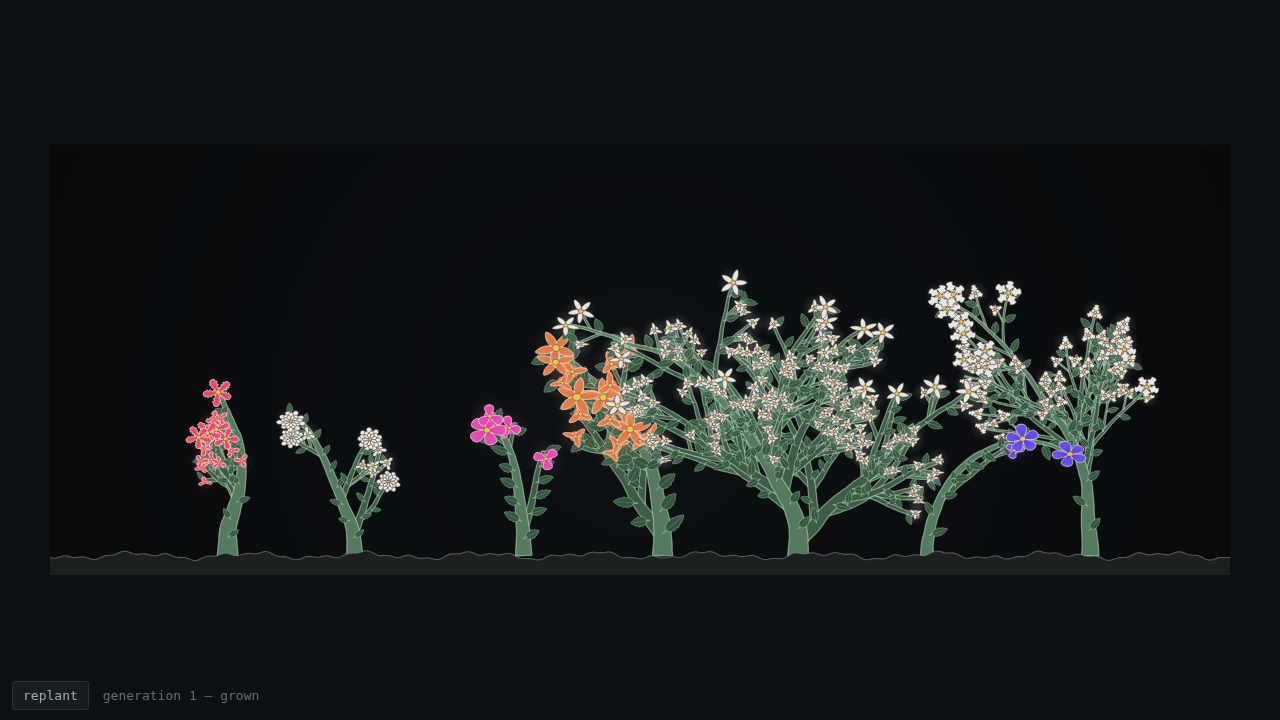
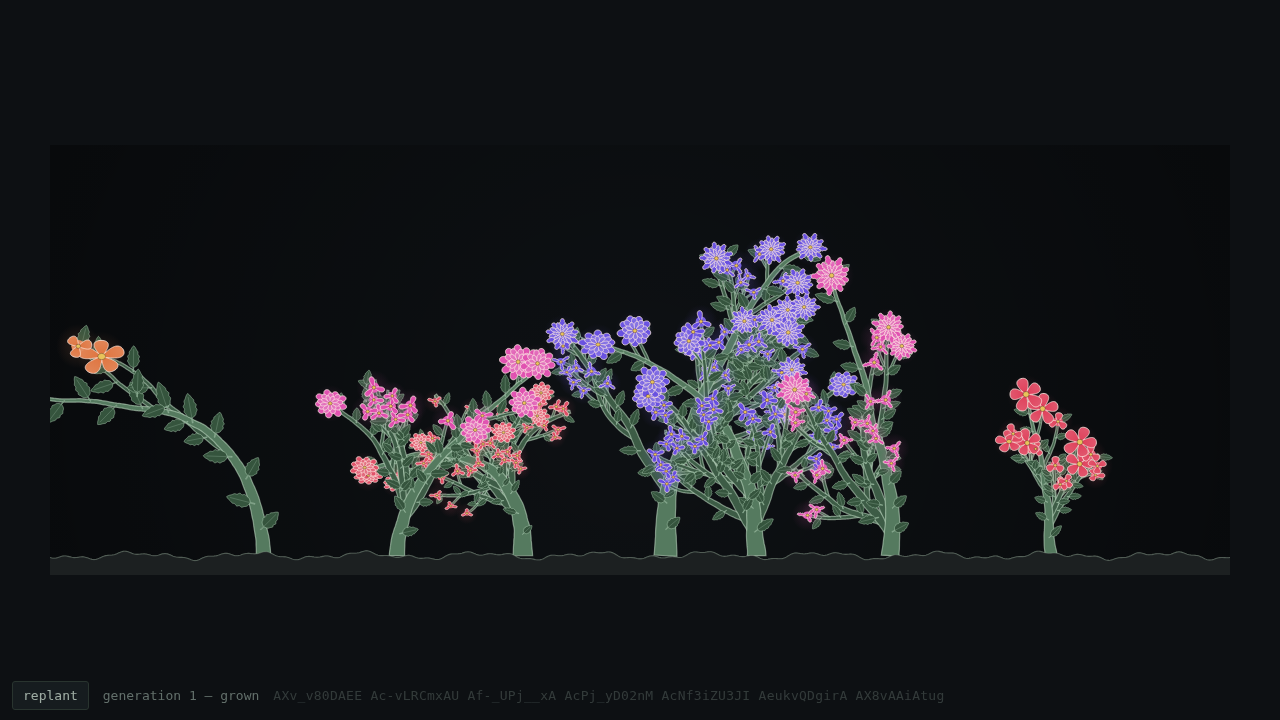
feat(garden): grow the bed from genomes, and fix the founder distribution
Wires Milestone 2 into the visible pipeline: the garden now draws
express(genome) with growPlant seeded by genomeSeed(genome), never by the plot.
The plot decides WHERE, never WHAT — a plot-derived seed would grow one genome
differently in each bed and break both share links and lineage recognition.

Doing that immediately exposed two defects no unit test could see, because both
are properties of a DISTRIBUTION and every test asserted reachability:

- Every founder came out white. `W` is dominant, so drawing alleles uniformly
  masks 3/4 of the population and the hue loci may as well not exist.
- Every founder had the same habit. Twelve fair coins per polygenic block is a
  binomial concentrated on dosage 6 (sd 1.7 of a 0..12 range), so the bed read
  as seven copies of one plant.

Founder frequencies are now explicit. `W` sits at 0.08 so white stays a
surprise; the `P` series weights are solved backwards from wanting all four
shapes equally often, since a dominance series does NOT give equal shapes from
equal frequencies; and the polygenic blocks draw one frequency per founder and
then the loci at that frequency, which makes the marginal dosage exactly uniform
over 0..12. That is a claim about FOUNDERS only — inherit() still mixes blocks
locus-by-locus, so a breeding population drifts back toward normal, which is
what makes selection feel like it does something.

Eight new tests assert the distribution, each paired with a control pointed at
[…]

diff --git a/garden/garden.ts b/garden/garden.ts
@@ -1,3 +1,6 @@
+import { express } from "../src/genome/express";
+import { randomGenome, type Genome } from "../src/genome/genome";
+import { genomeSeed, serialize } from "../src/genome/serialize";
 import { growPlant } from "../src/growth/sim";
 import { mulberry32 } from "../src/rng";
 import {
@@ -6,7 +9,7 @@ import {
   paintStage,
   soilLine,
 } from "../src/render/stage";
-import type { PetalShape, Phenotype, Plant } from "../src/types";
+import type { Plant } from "../src/types";
 
 const W = 1180;
 // Sized so a full-grown bed roughly fills the frame. At 560 the plants topped out around
@@ -14,39 +17,16 @@ const W = 1180;
 const H = 430;
 const PLOTS = 7;
 
-/**
- * A random plausible phenotype.
- *
- * Milestone 2 replaces this with express(genome) — the point here is only to show what the
- * growth engine's range actually looks like. The lookdev sheet deliberately shares ONE seed
- * across every panel to isolate a single gene, which also means it shows the same plant
- * twelve times and hides all of this.
- */
-function randomPhenotype(rand: () => number): Phenotype {
-  const shapes: PetalShape[] = ["round", "pointed", "lobed", "frilled"];
-  const doubled = rand() < 0.3;
-  return {
-    vigour: 0.35 + 0.65 * rand(),
-    droop: rand() < 0.25 ? 0.6 + 0.4 * rand() : 0.1 + 0.25 * rand(),
-    phototropism: 0.4 + 0.3 * rand(),
-    stiffness: 0.2 + 0.4 * rand(),
-    branchiness: 0.25 + 0.7 * rand(),
-    baseWidth: 7 + 5 * rand(),
-    taper: 0.974 + 0.008 * rand(),
-    branchAngle: 0.38 + 0.4 * rand(),
-    branchWidthRatio: 0.62 + 0.16 * rand(),
-    doubled,
-    petalShape: shapes[Math.floor(rand() * shapes.length)]!,
-    hueClass: Math.floor(rand() * 5) as 0 | 1 | 2 | 3 | 4,
-    white: rand() < 0.16,
-    bloomRadius: 15 + 12 * rand(),
-  };
-}
-
-type Bed = { plant: Plant; startTick: number; maxTick: number };
+type Bed = {
+  genome: Genome;
+  plant: Plant;
+  startTick: number;
+  maxTick: number;
+};
 
 const canvas = document.getElementById("c") as HTMLCanvasElement;
 const statusEl = document.getElementById("status")!;
+const codesEl = document.getElementById("codes")!;
 const dpr = Math.min(2, window.devicePixelRatio || 1);
 canvas.width = W * dpr;
 canvas.height = H * dpr;
@@ -66,28 +46,41 @@ function plant(seed: number): void {
   const soil = soilLine(H);
   beds = [];
   for (let i = 0; i < PLOTS; i++) {
-    const pheno = randomPhenotype(rand);
+    const genome = randomGenome(rand);
     // Spread the plots across the bed, jittered so they are not a metronome, then inset from
     // the edges — a plant's canopy spreads well past its plot, and unclamped jitter was
     // pushing the outer two plants half out of frame.
-    const inset = 90;
+    // 90 was not enough once founders spanned the full droop range: a weeper leans ~45px
+    // past its plot, so the outermost one hung its only flower over the frame edge.
+    const inset = 135;
     const span = W - inset * 2;
     const x =
       inset +
       ((i + 0.5) / PLOTS) * span +
       (rand() - 0.5) * (span / PLOTS) * 0.4;
-    const p = growPlant(pheno, Math.floor(rand() * 2 ** 30), { x, y: soil });
+    // The growth seed is the GENOME's, never the plot's (§6). A plot-derived seed would grow
+    // the same genome differently in each bed, which breaks both share links and lineage
+    // recognizability — so the plot only decides WHERE, never WHAT.
+    const p = growPlant(express(genome), genomeSeed(genome), { x, y: soil });
     const maxTick = Math.max(
       0,
       ...p.segments.map((s) => s.tick),
       ...p.blooms.map((b) => b.tick),
     );
     // Staggered emergence, so the bed fills in rather than all rising in lockstep.
-    beds.push({ plant: p, startTick: Math.floor(rand() * 46), maxTick });
+    beds.push({
+      genome,
+      plant: p,
+      startTick: Math.floor(rand() * 46),
+      maxTick,
+    });
   }
   t = 0;
   doneAtT = null;
   generation++;
+  // Every plant in the bed is now reproducible from eleven characters. Printing them is the
+  // cheapest possible check that the share format is wired to what is actually on screen.
+  codesEl.textContent = beds.map((b) => serialize(b.genome)).join("  ");
 }
 
 function frame(): void {
@@ -100,9 +93,7 @@ function frame(): void {
   paintSoil(ctx, W, H);
 
   const done = beds.every((b) => t - b.startTick >= b.maxTick);
-  statusEl.textContent = done
-    ? `generation ${generation} — grown`
-    : `generation ${generation} — growing`;
+  statusEl.textContent = `generation ${generation} — ${done ? "grown" : "growing"}`;
 
   // Growth speed: ~1.4 ticks per frame reads as unhurried without being tedious.
   t += 1.4;

diff --git a/test/genome.test.ts b/test/genome.test.ts
@@ -256,3 +256,121 @@ describe("randomGenome", () => {
     expect(seen.size).toBe(4);
   });
 });
+
+/**
+ * Founder DIVERSITY, not just reachability.
+ *
+ * The test above passed — all four alleles appear — while the founder population on screen
+ * was seven near-identical white plants. Reachability over 300 draws says nothing about the
+ * distribution, and the distribution is the entire visible property. Every assertion here is
+ * paired with a control that points it at the uniform-allele generator that actually shipped,
+ * so none of them can quietly stop discriminating.
+ */
+describe("founder population", () => {
+  /** The generator that produced the all-white, all-identical bed. */
+  function uniformFounder(rand: () => number): Genome {
+    const two = <A>(pair: readonly [A, A]): [A, A] => [
+      rand() < 0.5 ? pair[0] : pair[1],
+      rand() < 0.5 ? pair[0] : pair[1],
+    ];
+    const flat = (): PolyBlock => {
+      let a = 0;
+      let b = 0;
+      for (let i = 0; i < 6; i++) {
+        if (rand() < 0.5) a |= 1 << i;
+        if (rand() < 0.5) b |= 1 << i;
+      }
+      return { a, b };
+    };
+    return {
+      W: two(["W", "w"]),
+      H1: two(["H1", "h1"]),
+      H2: two(["H2", "h2"]),
+      D: two(["D", "d"]),
+      P: [
+        (["P^f", "P^l", "P^p", "p"] as const)[Math.floor(rand() * 4)]!,
+        (["P^f", "P^l", "P^p", "p"] as const)[Math.floor(rand() * 4)]!,
+      ],
+      V: flat(),
+      G: flat(),
+      B: flat(),
+    };
+  }
+
+  const sample = (gen: (r: () => number) => Genome, seed: number): Genome[] => {
+    const rand = mulberry32(seed);
+    return Array.from({ length: 2000 }, () => gen(rand));
+  };
+
+  const whiteFraction = (gs: Genome[]): number =>
+    gs.filter((g) => g.W.includes("W")).length / gs.length;
+
+  const dosageSpread = (gs: Genome[]): number => {
+    const xs = gs.map((g) => dosage(g.G));
+    const mean = xs.reduce((a, b) => a + b, 0) / xs.length;
+    return Math.sqrt(xs.reduce((a, x) => a + (x - mean) ** 2, 0) / xs.length);
+  };
+
+  const rarestShapeShare = (gs: Genome[]): number => {
+    const counts = new Map<string, number>();
+    for (const g of gs) {
+      const shown = ["P^f", "P^l", "P^p", "p"].find((a) =>
+        g.P.includes(a as never),
+      )!;
+      counts.set(shown, (counts.get(shown) ?? 0) + 1);
+    }
+    return Math.min(...[...counts.values()]) / gs.length;
+  };
+
+  it("keeps white uncommon — it is a surprise, not the default", () => {
+    expect(whiteFraction(sample(randomGenome, 900))).toBeLessThan(0.25);
+  });
+
+  it("CONTROL: uniform allele frequencies make 3/4 of founders white", () => {
+    // `W` is dominant, so an allele at 0.5 shows in 1 − 0.5² of the population. This is the
+    // arithmetic the shipped generator lost, and the reason the whole bed came out white.
+    expect(whiteFraction(sample(uniformFounder, 900))).toBeGreaterThan(0.7);
+  });
+
+  it("spreads habit across the whole range", () => {
+    // Uniform over 0..12 has sd √14 ≈ 3.74; a fair binomial has √3 ≈ 1.73.
+    expect(dosageSpread(sample(randomGenome, 901))).toBeGreaterThan(3);
+  });
+
+  it("CONTROL: twelve fair coins collapse habit onto the mid-range", () => {
+    expect(dosageSpread(sample(uniformFounder, 901))).toBeLessThan(2.2);
+  });
+
+  it("reaches both habit extremes, not just the middle", () => {
+    const gs = sample(randomGenome, 902);
+    const ds = gs.map((g) => dosage(g.G));
+    expect(Math.min(...ds)).toBeLessThan(2);
+    expect(Math.max(...ds)).toBeGreaterThan(10);
+  });
+
+  it("shows all five hue classes at a usable rate", () => {
+    const gs = sample(randomGenome, 903);
+    for (const want of [0, 1, 2, 3, 4]) {
+      const share =
+        gs.filter(
+          (g) =>
+            (g.H1[0] === "H1" ? 1 : 0) +
+              (g.H1[1] === "H1" ? 1 : 0) +
+              (g.H2[0] === "H2" ? 1 : 0) +
+              (g.H2[1] === "H2" ? 1 : 0) ===
+            want,
+        ).length / gs.length;
+      expect(share).toBeGreaterThan(0.1);
+    }
+  });
+
+  it("shows all four petal shapes at a usable rate", () => {
+    // A dominance series does NOT give equal shapes from equal allele frequencies: the top
+    // allele shows whenever either copy carries it. The founder weights solve that backwards.
+    expect(rarestShapeShare(sample(randomGenome, 904))).toBeGreaterThan(0.15);
+  });
+
+  it("CONTROL: equal allele frequencies starve the bottom of the P series", () => {
+    expect(rarestShapeShare(sample(uniformFounder, 904))).toBeLessThan(0.1);
+  });
+});

diff --git a/src/genome/genome.ts b/src/genome/genome.ts
@@ -86,23 +86,92 @@ function polyGamete(block: PolyBlock, rand: () => number): number {
   return out;
 }
 
+/**
+ * Founder allele frequencies. NOT uniform, and the difference is visible on screen.
+ *
+ * Drawing every allele at 0.5 seems like the neutral choice and is not. Two failures showed
+ * up the moment expressed genomes drove the garden instead of hand-written phenotypes:
+ *
+ *   - `W` is DOMINANT, so frequency 0.5 masks 3/4 of the population. Every founder flower
+ *     came out white and the hue loci may as well not have existed.
+ *   - `P` is a dominance SERIES, so equal allele frequencies do not give equal shapes. The
+ *     top allele shows whenever either copy carries it: 44% frilled, 6% round.
+ *
+ * The `P` weights below are solved backwards from wanting all four shapes roughly equally
+ * often. A shape shows when it is the highest-ranked allele present, so with cumulative
+ * frequency C(k) over ranks at-or-below k, P(shape k) = C(k)² − C(k−1)². Setting each to
+ * 1/4 gives C = (1, .866, .5) and the weights are the differences.
+ */
+const FOUNDER = {
+  /** P(the pigment-block allele `W`). Low: white must be uncommon enough to be a surprise. */
+  W: 0.08,
+  /** P(`D`, single). 0.5 leaves a quarter of founders doubled. */
+  D: 0.5,
+  /** Rank-ordered: frilled, lobed, pointed, round. */
+  P: [0.134, 0.159, 0.207, 0.5],
+} as const;
+
+function weighted<T>(
+  items: readonly T[],
+  weights: readonly number[],
+  rand: () => number,
+): T {
+  const total = weights.reduce((a, b) => a + b, 0);
+  let r = rand() * total;
+  for (let i = 0; i < items.length; i++) {
+    r -= weights[i]!;
+    if (r <= 0) return items[i]!;
+  }
+  return items[items.length - 1]!;
+}
+
+/**
+ * A founder polygenic block: draw ONE frequency for the whole block, then every locus at
+ * that frequency.
+ *
+ * The hierarchical draw is the whole point. Twelve fair coins is a binomial concentrated on
+ * dosage 6 — sd 1.7 out of a 0..12 range — so every founder came out with the same mid-range
+ * habit and the bed read as seven copies of one plant. Drawing p ~ U(0,1) first makes the
+ * marginal dosage distribution exactly UNIFORM over 0..12 (a beta(1,1)-binomial), which is
+ * the spread a founder collection of distinct cultivars actually has.
+ *
+ * This is a statement about FOUNDERS only. Once breeding starts, `inherit` mixes blocks
+ * locus-by-locus and the population drifts back toward a normal distribution — which is
+ * correct, and is what makes selection feel like it is doing something.
+ */
 function randomPoly(rand: () => number): PolyBlock {
+  const p = rand();
   let a = 0;
   let b = 0;
   for (let i = 0; i < POLY_LOCI; i++) {
-    if (rand() < 0.5) a |= 1 << i;
-    if (rand() < 0.5) b |= 1 << i;
+    if (rand() < p) a |= 1 << i;
+    if (rand() < p) b |= 1 << i;
   }
   return { a, b };
 }
 
 export function randomGenome(rand: () => number): Genome {
+  // One hue frequency per founder, for the same reason as the polygenic blocks: four fair
+  // coins would pile 3/8 of the population into hue class 2 and leave 1/16 at each end.
+  const hueP = rand();
+  const hue = <A extends string>(pair: readonly [A, A]): A =>
+    rand() < hueP ? pair[0] : pair[1];
+
   return {
-    W: [pick(W_ALLELES, rand), pick(W_ALLELES, rand)],
-    H1: [pick(H1_ALLELES, rand), pick(H1_ALLELES, rand)],
-    H2: [pick(H2_ALLELES, rand), pick(H2_ALLELES, rand)],
-    D: [pick(D_ALLELES, rand), pick(D_ALLELES, rand)],
-    P: [pick(P_ALLELES, rand), pick(P_ALLELES, rand)],
+    W: [
+      weighted(W_ALLELES, [FOUNDER.W, 1 - FOUNDER.W], rand),
+      weighted(W_ALLELES, [FOUNDER.W, 1 - FOUNDER.W], rand),
+    ],
+    H1: [hue(H1_ALLELES), hue(H1_ALLELES)],
+    H2: [hue(H2_ALLELES), hue(H2_ALLELES)],
+    D: [
+      weighted(D_ALLELES, [FOUNDER.D, 1 - FOUNDER.D], rand),
+      weighted(D_ALLELES, [FOUNDER.D, 1 - FOUNDER.D], rand),
+    ],
+    P: [
+      weighted(P_ALLELES, FOUNDER.P, rand),
+      weighted(P_ALLELES, FOUNDER.P, rand),
+    ],
     V: randomPoly(rand),
     G: randomPoly(rand),
     B: randomPoly(rand),

diff --git a/garden/index.html b/garden/index.html
@@ -48,6 +48,10 @@
       button:hover {
         background: #223035;
       }
+      #codes {
+        opacity: 0.45;
+        letter-spacing: 0.02em;
+      }
     </style>
   </head>
   <body>
@@ -55,6 +59,7 @@
     <div id="hud">
       <button id="replant">replant</button>
       <span id="status"></span>
+      <span id="codes"></span>
     </div>
     <script type="module" src="./garden.ts"></script>
   </body>
